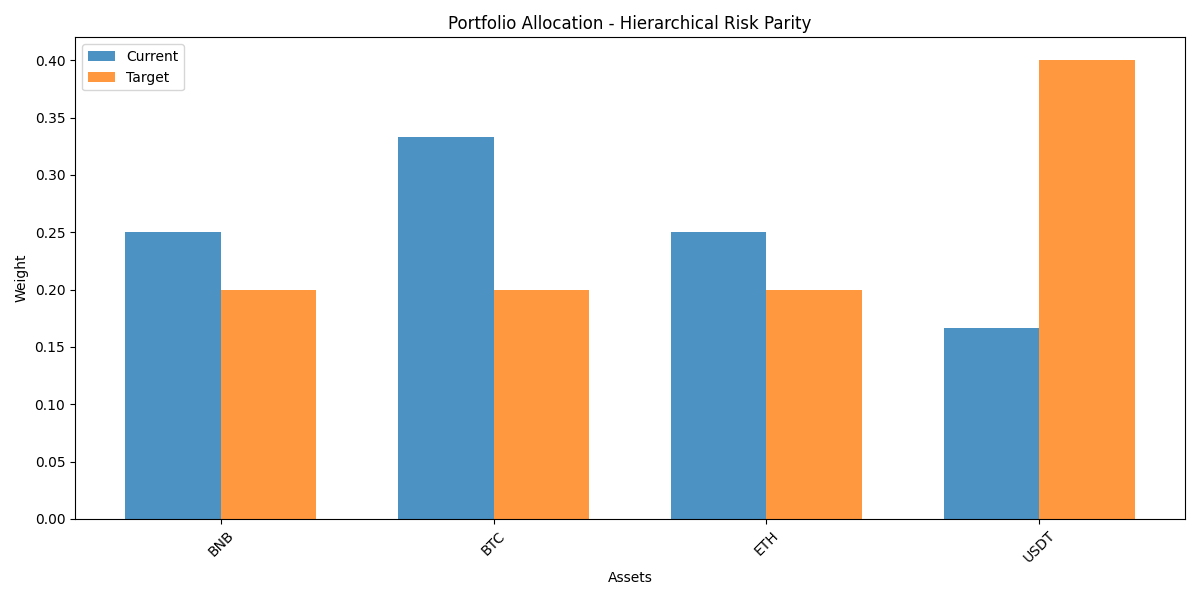
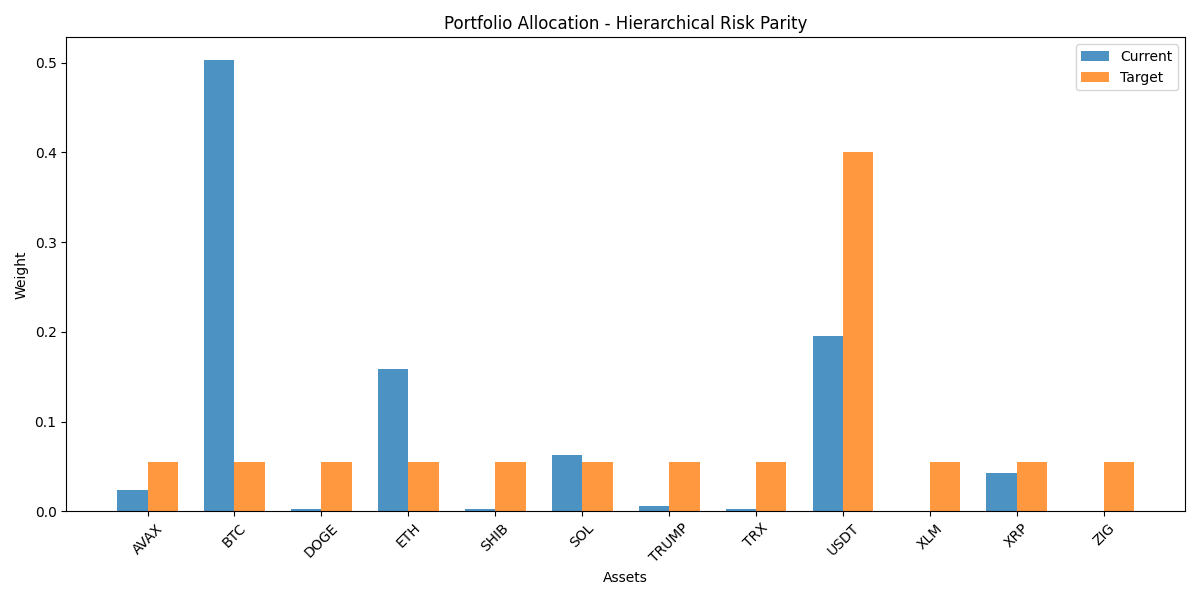
📝 docs(README): enhance feature descriptions with emojis   - add emojis to highlight various sections   - improve readability and engagement
🐛 fix(bybit): update API key validation method
  - change API validation to fetch wallet balance for accuracy

♻ refactor(exchanges): improve exchange connector implementation
  - replace old connector interface with a base exchange class
  - change imports to match new module structure

🎨 style(demo): remove duplicate code in portfolio rebalancing example
  - clear up redundant argument parsing

📈 perf(analyzer): optimize fetching and calculating returns
  - utilize historical OHLCV data for precise returns calculation
  - handle cases with no data more gracefully

🖼 chore(graphics): update portfolio allocation image
  - reflect updated data visualization

diff --git a/src/alpha_pulse/portfolio/analyzer.py b/src/alpha_pulse/portfolio/analyzer.py
@@ -8,7 +8,7 @@ import pandas as pd
 from datetime import datetime, timedelta
 from loguru import logger
 
-from alpha_pulse.exchange_conn.interface import ExchangeConnector, Balance
+from alpha_pulse.exchanges import BaseExchange, Balance
 from alpha_pulse.portfolio.allocation_strategy import AllocationStrategy, AllocationResult
 from alpha_pulse.portfolio.mpt_strategy import MPTStrategy
 from alpha_pulse.portfolio.hrp_strategy import HRPStrategy
@@ -23,14 +23,14 @@ class PortfolioAnalyzer:
     
     def __init__(
         self,
-        exchange: ExchangeConnector,
+        exchange: BaseExchange,
         strategy: Optional[AllocationStrategy] = None,
         lookback_days: int = 30
     ):
         """Initialize portfolio analyzer.
         
         Args:
-            exchange: Exchange connector instance
+            exchange: Exchange instance
             strategy: Allocation strategy (defaults to MPT)
             lookback_days: Days of historical data to use
         """
@@ -120,20 +120,23 @@ class PortfolioAnalyzer:
                         logger.warning(f"Could not get price for {symbol}")
                         continue
                     
-                    # Simulate returns with asset-specific parameters
-                    # In production, fetch real historical data here
-                    volatility = DEFAULT_RETURN_VOL
-                    if asset in ["BTC", "ETH"]:
-                        volatility *= 1.2  # Higher volatility for major coins
-                    
-                    returns = pd.Series(
-                        np.random.normal(
-                            DEFAULT_RETURN_MEAN,
-                            volatility,
-                            self.lookback_days
-                        ),
-                        index=dates
+                    # Get historical OHLCV data
+                    ohlcv_data = await self.exchange.fetch_ohlcv(
+                        symbol=symbol,
+                        timeframe=timeframe,
+                        limit=self.lookback_days
                     )
+                    
+                    if not ohlcv_data:
+                        logger.warning(f"No historical data for {symbol}")
+                        continue
+                    
+                    # Calculate returns from close prices
+                    prices = pd.Series(
+                        [float(candle.close) for candle in ohlcv_data],
+                        index=dates[-len(ohlcv_data):]
+                    )
+                    returns = prices.pct_change().fillna(0)
                     valid_assets += 1
                 
                 returns_data[asset] = returns

diff --git a/src/alpha_pulse/examples/demo_portfolio_rebalancing.py b/src/alpha_pulse/examples/demo_portfolio_rebalancing.py
@@ -142,13 +142,6 @@ async def main() -> None:
     """Main function."""
     # Parse arguments
     parser = argparse.ArgumentParser(description="Portfolio rebalancing demo")
-    parser.add_argument("--api-key", help="Exchange API key")
-    parser.add_argument("--api-secret", help="Exchange API secret")
-    parser.add_argument("--testnet", action="store_true", help="Use testnet")
-    args = parser.parse_args()
-    
-    # Parse arguments
-    parser = argparse.ArgumentParser(description="Portfolio rebalancing demo")
     parser.add_argument("--exchange", choices=["binance", "bybit"], default="binance", help="Exchange to use")
     parser.add_argument("--api-key", help="Exchange API key")
     parser.add_argument("--api-secret", help="Exchange API secret")

diff --git a/src/alpha_pulse/exchanges/bybit.py b/src/alpha_pulse/exchanges/bybit.py
@@ -143,8 +143,8 @@ class BybitExchange(CCXTExchange):
     async def validate_api_keys(self) -> bool:
         """Validate API keys by attempting to access private endpoints."""
         try:
-            # Bybit requires a specific endpoint for key validation
-            await self.exchange.privateGetApiKey()
+            # Bybit validates keys by attempting to fetch wallet balance
+            await self.exchange.fetch_balance()
             return True
         except Exception as e:
             logger.error(f"Bybit API key validation failed: {e}")

diff --git a/README.md b/README.md
@@ -1,18 +1,18 @@
-# AlphaPulse Trading System
+# 🚀 AlphaPulse Trading System
 
 A modular cryptocurrency trading system with support for backtesting, paper trading, and live execution.
 
-## Features
+## ✨ Features
 
-- Data Pipeline: Fetch and store market data from multiple exchanges
-- Feature Engineering: Calculate technical indicators and generate training features
-- Model Training: Train and evaluate machine learning models
-- Backtesting: Test strategies on historical data
-- Paper Trading: Simulate trading with real-time market data
-- Risk Management: Advanced position sizing and portfolio optimization
-- Live Trading: Execute trades on supported exchanges (coming soon)
+- 📊 Data Pipeline: Fetch and store market data from multiple exchanges
+- 🧮 Feature Engineering: Calculate technical indicators and generate training features
+- 🤖 Model Training: Train and evaluate machine learning models
+- 📈 Backtesting: Test strategies on historical data
+- 🎮 Paper Trading: Simulate trading with real-time market data
+- 🛡 Risk Management: Advanced position sizing and portfolio optimization
+- 💹 Live Trading: Execute trades on supported exchanges (coming soon)
 
-## Installation
+## 🔧 Installation
 
 ```bash
 # Clone the repository
@@ -23,9 +23,9 @@ cd AlphaPulse
 pip install -e .
 ```
 
-## Usage
+## 🎯 Usage
 
-### 1. Train a Model
+### 1. 🧠 Train a Model
 
 Train a prediction model using historical data:
 
@@ -39,7 +39,7 @@ This will:
 - Train a RandomForest model
 - Save the model to trained_models/crypto_prediction_model.joblib
 
-### 2. Multi-Asset Trading with Risk Management
+### 2. 📊 Multi-Asset Trading with Risk Management
 
 Run the multi-asset trading system with advanced risk management:
 
@@ -61,7 +61,7 @@ Command line arguments:
 - `--api-secret`: Exchange API secret
 - `--interval`: Update interval in seconds (default: 60)
 
-### 3. Paper Trading
+### 3. 🎯 Paper Trading
 
 Run paper trading simulation with real-time market data:
 
@@ -69,12 +69,13 @@ Run paper trading simulation with real-time market data:
 python src/alpha_pulse/examples/demo_paper_trading.py
 ```
 
-### 4. Portfolio Rebalancing
+### 4. 💼 Portfolio Rebalancing
 
 Run portfolio analysis and rebalancing:
 
 ```bash
 python src/alpha_pulse/examples/demo_portfolio_rebalancing.py \
+    --exchange binance \  # or bybit
     --api-key your_api_key \
     --api-secret your_api_secret \
     --testnet  # Optional: use testnet for testing
@@ -87,7 +88,7 @@ This will:
 - Generate rebalancing recommendations
 - Plot current vs target allocations
 
-### 5. Backtesting
+### 5. 📊 Backtesting
 
 Run backtesting on historical data:
 
@@ -95,7 +96,7 @@ Run backtesting on historical data:
 python src/alpha_pulse/examples/demo_backtesting.py
 ```
 
-## Project Structure
+## 📁 Project Structure
 
 ```
 AlphaPulse/
@@ -106,6 +107,11 @@ AlphaPulse/
 │       ├── models/          # ML model implementations
 │       ├── backtesting/     # Backtesting engine
 │       ├── execution/       # Order execution
+│       ├── exchanges/       # Exchange integrations
+│       │   ├── base.py          # Base exchange interface
+│       │   ├── binance.py       # Binance implementation
+│       │   ├── bybit.py         # Bybit implementation
+│       │   └── credentials/     # Secure credential management
 │       ├── risk_management/ # Risk and portfolio management
 │       │   ├── interfaces.py     # Abstract interfaces
 │       │   ├── position_sizing.py # Position sizing strategies
@@ -120,83 +126,83 @@ AlphaPulse/
 └── logs/                   # Application logs
 ```
 
-## Risk Management & Portfolio Optimization
+## 🛡 Risk Management & Portfolio Optimization
 
 The system includes comprehensive risk management and portfolio optimization features:
 
-### Position Sizing Strategies
+### 📊 Position Sizing Strategies
 
-1. Kelly Criterion:
+1. 🎯 Kelly Criterion:
    - Optimal position sizing based on win rate and profit ratio
    - Adjusts for volatility and signal strength
    - Configurable fraction for conservative sizing
 
-2. Volatility-Based:
+2. 📈 Volatility-Based:
    - Position sizing based on asset volatility
    - Targets specific portfolio risk level
    - Adapts to changing market conditions
 
-3. Adaptive Strategy:
+3. 🔄 Adaptive Strategy:
    - Combines multiple sizing approaches
    - Weights strategies based on market conditions
    - Self-adjusting based on performance
 
-### Risk Analysis
+### 📊 Risk Analysis
 
-1. Risk Metrics:
+1. 📉 Risk Metrics:
    - Value at Risk (VaR)
    - Expected Shortfall (CVaR)
    - Maximum Drawdown
    - Sharpe & Sortino Ratios
    - Volatility Analysis
 
-2. Real-time Monitoring:
+2. 🔍 Real-time Monitoring:
    - Rolling risk metrics
    - Drawdown tracking
    - Position exposure analysis
 
-### Portfolio Optimization & Rebalancing
+### 💼 Portfolio Optimization & Rebalancing
 
-1. Modern Portfolio Theory (MPT):
+1. 📈 Modern Portfolio Theory (MPT):
    - Mean-variance optimization
    - Efficient frontier calculation
    - Risk-adjusted return optimization
    - Sharpe ratio maximization
    - Support for custom constraints
 
-2. Hierarchical Risk Parity (HRP):
+2. 🌳 Hierarchical Risk Parity (HRP):
    - Clustering-based portfolio optimization
    - More robust to estimation errors
    - Better numerical stability
    - Handles high-dimensional portfolios
    - No expected returns estimation needed
 
-3. Portfolio Analysis:
+3. 📊 Portfolio Analysis:
    - Current allocation analysis
    - Rebalancing score calculation
    - Trade size optimization
    - Transaction cost consideration
    - Visual allocation comparison
 
-4. Exchange Integration:
+4. 🔄 Exchange Integration:
    - Real-time balance tracking
-   - Multi-exchange support
+   - Multi-exchange support (Binance, Bybit)
    - Automated rebalancing suggestions
    - Support for spot and futures
-   - Custom API key management
+   - Secure API key management
 
 Example usage with the Portfolio Analyzer:
 
 ```python
-from alpha_pulse.exchange_conn.binance import BinanceConnector
+from alpha_pulse.exchanges import ExchangeType, ExchangeFactory
 from alpha_pulse.portfolio.analyzer import PortfolioAnalyzer
 from alpha_pulse.portfolio.hrp_strategy import HRPStrategy
 
 async def optimize_portfolio():
-    # Initialize exchange connection
-    exchange = BinanceConnector(
-        api_key="your_key",
-        api_secret="your_secret"
+    # Initialize exchange
+    exchange = await ExchangeFactory.create_exchange(
+        exchange_type=ExchangeType.BYBIT,
+        testnet=False
     )
     
     # Create portfolio analyzer with HRP strategy
@@ -225,7 +231,7 @@ async def optimize_portfolio():
     return result, trades
 ```
 
-### Configuration
+### ⚙ Configuration
 
 Risk management parameters can be configured through `RiskConfig`:
 
@@ -242,7 +248,7 @@ config = RiskConfig(
 )
 ```
 
-### Usage Example
+### 🔍 Usage Example
 
 ```python
 from alpha_pulse.risk_management import RiskManager, RiskConfig
@@ -275,9 +281,9 @@ if risk_manager.evaluate_trade(
     execute_trade(...)
 ```
 
-## Development
+## 🛠 Development
 
-### Running Tests
+### 🧪 Running Tests
 
 ```bash
 # Run all tests
@@ -287,7 +293,7 @@ pytest src/alpha_pulse/tests/
 pytest src/alpha_pulse/tests/test_risk_management.py
 ```
 
-### Adding New Features
+### ✨ Adding New Features
 
 1. Create feature branch
 2. Add tests
@@ -295,6 +301,6 @@ pytest src/alpha_pulse/tests/test_risk_management.py
 4. Run tests
 5. Submit pull request
 
-## License
+## 📄 License
 
 MIT License - see LICENSE file for details
